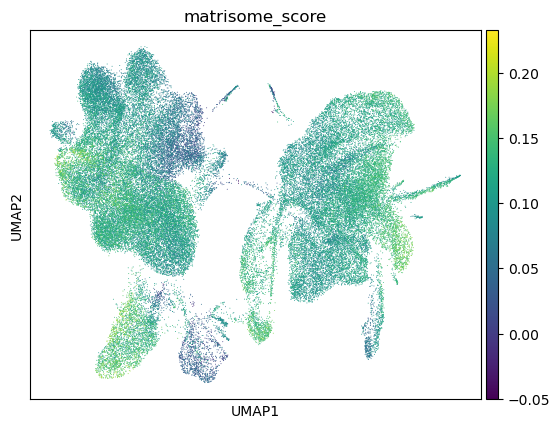
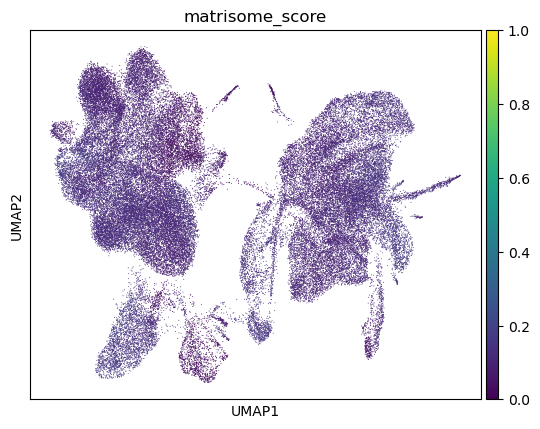
add split per sample for matrisome and auc plots and fix scale bar

diff --git a/src/AUC_perSample.py b/src/AUC_perSample.py
@@ -4,7 +4,6 @@ import matplotlib.pyplot as plt
 import numpy as np
 import argparse
 import os
-from matplotlib.colors import Normalize
 
 # Parse arguments
 parser = argparse.ArgumentParser()
@@ -51,10 +50,16 @@ plt.close()
 # Plot 2: UMAP colored by AUCell score (if UMAP exists)
 if 'X_umap' in adata.obsm:
     fig, ax = plt.subplots(figsize=(10, 8))
-    # FIX: Set color normalization to range 0-1
-    norm = Normalize(vmin=0, vmax=1)
-    scat = ax.scatter(adata.obsm['X_umap'][:, 0], adata.obsm['X_umap'][:, 1], 
-                      c=adata.obs['AUCell_score'], cmap='viridis', s=1, alpha=0.6, norm=norm)
+    scat = ax.scatter(
+        adata.obsm['X_umap'][:, 0],
+        adata.obsm['X_umap'][:, 1],
+        c=adata.obs['AUCell_score'],
+        cmap='viridis',
+        s=1,
+        alpha=0.6,
+        vmin=0,
+        vmax=1
+    )
     ax.set_xlabel('UMAP1')
     ax.set_ylabel('UMAP2')
     ax.set_title(f'AUCell Score on UMAP ({args.prefix})')
@@ -64,13 +69,30 @@ if 'X_umap' in adata.obsm:
     plt.savefig(f'figures/{args.prefix}_aucell_umap.png', dpi=150)
     plt.close()
 
-# Plot 3: Violin plot per cluster (if 'leiden' exists)
-if 'leiden' in adata.obs.columns:
-    fig, ax = plt.subplots(figsize=(12, 6))
-    sc.pl.violin(adata, 'AUCell_score', groupby='leiden', ax=ax, show=False)
-    ax.set_title(f'AUCell Score by Leiden Cluster ({args.prefix})')
-    plt.tight_layout()
-    plt.savefig(f'figures/{args.prefix}_aucell_violin.png', dpi=150)
-    plt.close()
+# Plot 3: UMAP colored by AUCell score per sample (if UMAP and sample column exist)
+if 'X_umap' in adata.obsm and 'sample' in adata.obs.columns:
+    unique_samples = adata.obs['sample'].unique()
+    for sample in unique_samples:
+        fig, ax = plt.subplots(figsize=(10, 8))
+        # Subset cells for this sample
+        mask = adata.obs['sample'] == sample
+        scat = ax.scatter(
+            adata.obsm['X_umap'][mask, 0],
+            adata.obsm['X_umap'][mask, 1],
+            c=adata.obs['AUCell_score'][mask],
+            cmap='viridis',
+            s=1,
+            alpha=0.6,
+            vmin=0,
+            vmax=1
+        )
+        ax.set_xlabel('UMAP1')
+        ax.set_ylabel('UMAP2')
+        ax.set_title(f'AUCell Score - {sample} ({args.prefix})')
+        cbar = plt.colorbar(scat, ax=ax)
+        cbar.set_label('AUCell Score')
+        plt.tight_layout()
+        plt.savefig(f'figures/{args.prefix}_aucell_umap_{sample}.png', dpi=150)
+        plt.close()
 
 print(f"All figures saved to figures/{args.prefix}_aucell_*.png")

diff --git a/src/matrisomePlot.py b/src/matrisomePlot.py
@@ -36,10 +36,6 @@ def compute_matrisome_score(adata, matrisome_genes):
     if len(valid_genes) == 0:
         raise ValueError("No valid genes after mapping")
 
-    # ==========================
-    # THE ONLY REAL FIX
-    # ==========================
-    # tell Scanpy to use the layer instead of X
     sc.tl.score_genes(
         adata,
         gene_list=valid_genes,
@@ -69,13 +65,30 @@ def main():
 
     adata = compute_matrisome_score(adata, matrisome_genes)
 
+    # Overall UMAP
     sc.pl.umap(
         adata,
         color="matrisome_score",
+        vmin=0,
+        vmax=1,
         show=False,
         title=f"{args.prefix}_score",
         save=f"_{args.prefix}_matrisome_umap.png"
     )
+
+    # UMAP per sample
+    if 'sample' in adata.obs.columns:
+        for sample in adata.obs['sample'].unique():
+            adata_subset = adata[adata.obs['sample'] == sample]
+            sc.pl.umap(
+                adata_subset,
+                color="matrisome_score",
+                vmin=0,
+                vmax=1,
+                show=False,
+                title=f"{args.prefix}_{sample}",
+                save=f"_{args.prefix}_matrisome_umap_{sample}.png"
+            )
 
     adata.write(args.output)
 

diff --git a/README.md b/README.md
@@ -406,7 +406,11 @@ marker_genes = {
 
 ### Matrisome plot 
 
-![](figures/umap_matrisome_matrisome_umap.png?v=1)
+![](figures/umap_matrisome_matrisome_umap.png?v=2)
+![](figures/umap_matrisome_matrisome_umap_Uninjured.png?v=1)
+![](figures/umap_matrisome_matrisome_umap_3d.png?v=1)
+![](figures/umap_matrisome_matrisome_umap_6d.png?v=1)
+![](figures/ umap_matrisome_matrisome_umap_9d.png?v=1)
 
 #### Matrisome plots per category 
 
@@ -417,14 +421,30 @@ marker_genes = {
 
 #### A score plot using Blastema genes 
 
-![](figures/umap_blastema_matrisome_umap.png?v=1)
+![](figures/umap_blastema_matrisome_umap.png?v=2) 
+
+![](figures/umap_blastema_matrisome_umap_Uninjured.png?v=1)
+![](figures/umap_blastema_matrisome_umap_3d.png?v=1)
+![](figures/umap_blastema_matrisome_umap_6d.png?v=1)
+![](figures/umap_blastema_matrisome_umap_9d.png?v=1)
+
+
+#### AUCell score for genes blastema gees 
+
+AUCell score = For each cell, it measures "how many of your input genes are in the top 5-10% most highly expressed genes in that cell" 
+Here, we used blastema genes
+
+![](figures/allWT_sAUCell_aucell_umap.png?v=2)
+![](figures/allWT_sAUCell_aucell_umap_Uninjured.png?v=1)
+![](figures/allWT_sAUCell_aucell_umap_3d.png?v=1)
+![](figures/allWT_sAUCell_aucell_umap_6d.png?v=1)
+![](figures/allWT_sAUCell_aucell_umap_9d.png?v=1)
+
 
 ### Random Forest celltype simialrity 
 
 
 ![](figures/RF_violin_samples.png?v=1) 
-
-
 
 
 ## Preliminary Annotations 
